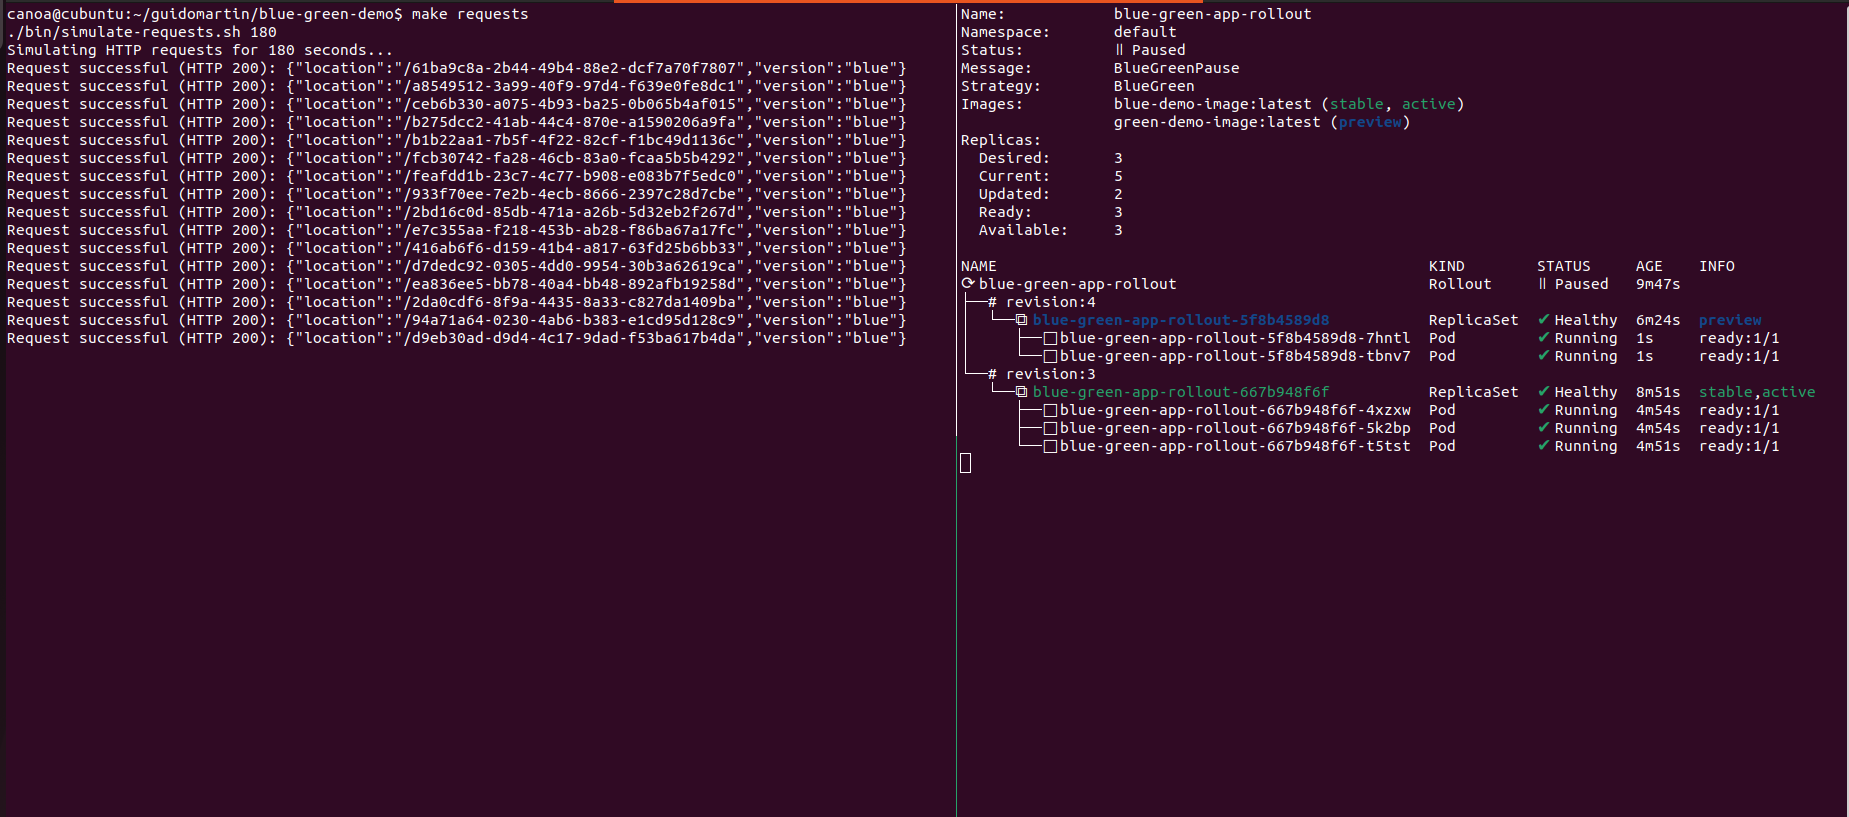
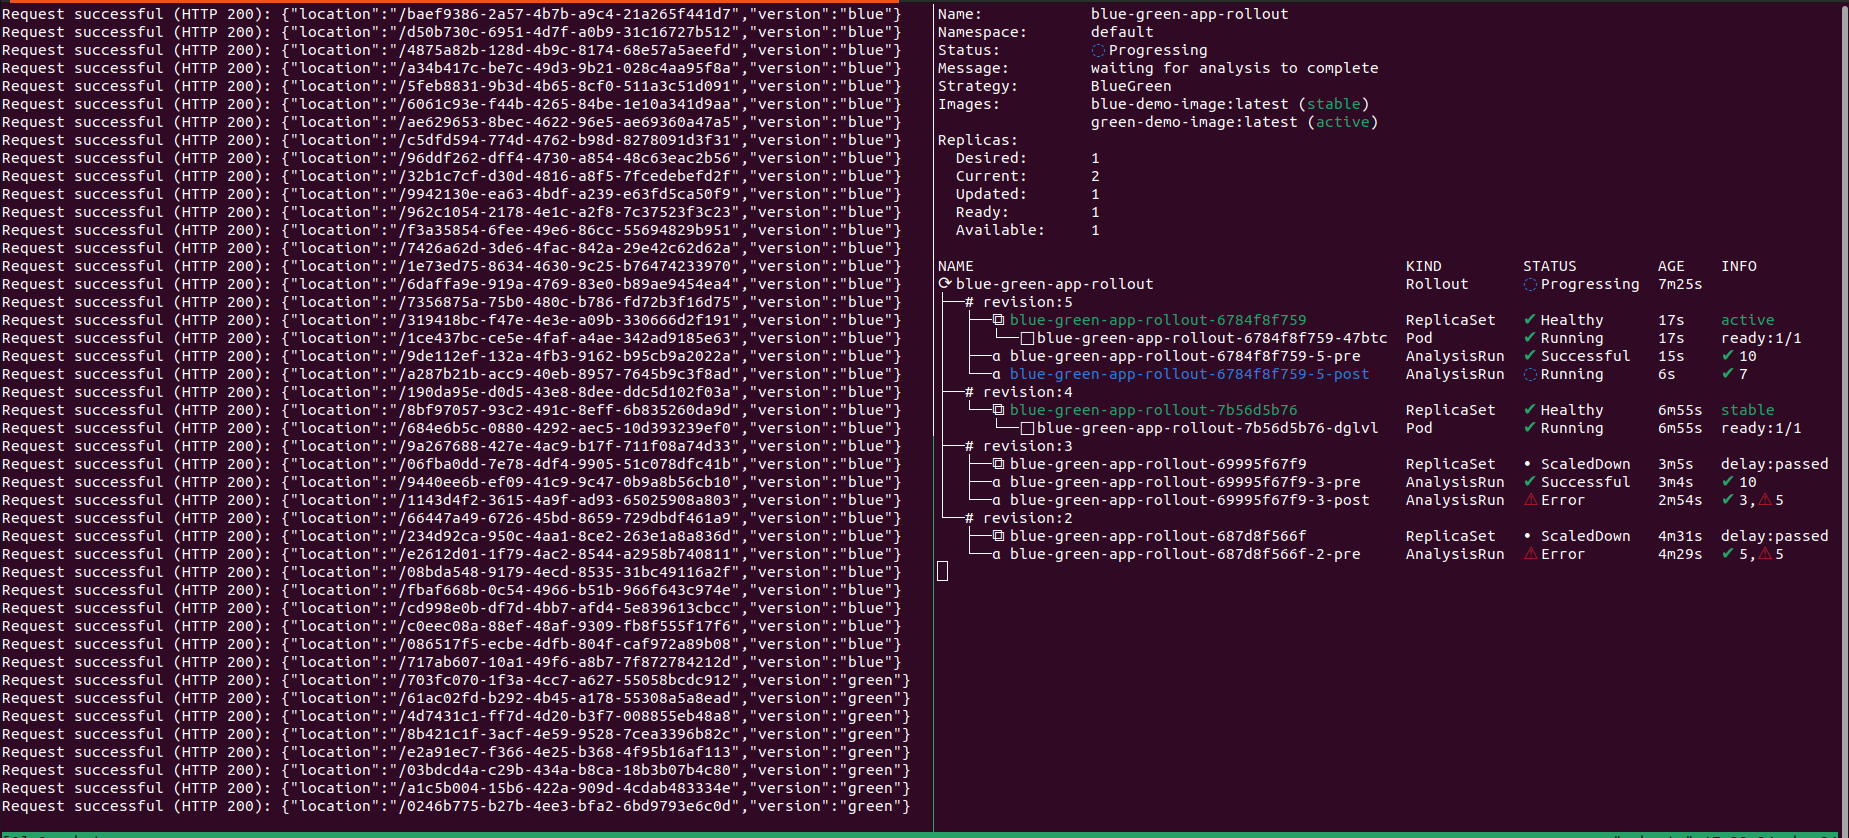
docs(README.md): add failure handling and manual promotion to docs

Changed region(s): [[0.0, 0.0, 1.0, 1.0]]

diff --git a/README.md b/README.md
@@ -61,25 +61,96 @@ make requests
 
 The output will display the location targeted (a UUID) and the version (indicating blue or green) to which the request is connected
 
-#### Step 3: Switch Images and Monitor Rollout
+In a different terminal window, execute the following command to monitor the status of the rollout thought the demo
+```
+make status
+```
 
-In a different terminal window, execute the following command to switch back and forth between the blue and green versions, and monitor the status of the rollout:
+#### Step 3 (Optional): Toggle Auto Promotion to false
+
+By default, this Argo Rollouts demo is configured with `autoPromotionEnabled` set to true, which automatically promotes rollouts after successful completion of prePromotionAnalysis.
+
+To change this behavior and enable manual promotion using a command later in the demo, you can disable auto promotion by executing the following command:
+```
+make disable_auto_promotion
+```
+
+You can revert this setting at any point by executing:
+```
+make enable_auto_promotion
+```
+
+#### Step 4: Showcase Failure before promotion
+
+In this demonstration, we have configured prePromotionAnalysis and postPromotionAnalysis to assess the health of the service by conducting 10 HTTP requests and validating the presence of a version field. The success or failure of these analyses will determine the criteria for promotion and rollback.
+
+To simulate a scenario where prePromotionAnalysis fails, we will intentionally introduce a failure in our application after a few seconds. Execute the following command to make our application image fail after 5 seconds by setting the FAIL_AFTER_SECONDS environment variable in the Argo Rollout:
+
+```
+make fail
+```
+
+Use the make status command to monitor the analysis errors until the new version's status is flagged as "Degraded":
+
+![Pre Promotion Analysis Failing](img/prePromotionFailing.png)
+
+The rollout status will appear as "Degraded" after the status is flagged as "Error":
+
+![Pre Promotion Analysis Degraded](img/prePromotionFailed.png)
+
+This demonstration showcases how the prePromotionAnalysis can detect issues and prevent automatic promotion, allowing you to observe the impact of failures on the rollout's status and behavior. Adjust the analysis criteria and handling based on your specific deployment requirements and error scenarios
+
+#### Step 5: Showcase Failure After Promotion
+
+In this step, we will simulate a failure occurring after the promotion, allowing the prePromotionAnalysis to pass before encountering errors.
+
+To initiate the rollout failure after the pre-promotion analysis has run successfully, execute the following command:
+```
+make fail_after_promotion
+```
+
+If you have **autoPromotionEnabled** set to false (as described in Step 3), you will need to manually promote the image after the pre-promotion analysis finishes. Use the following command to perform manual promotion:
+```
+make manual-promotion
+```
+
+After approximately 12 seconds, the image will begin to return HTTP error 500 responses. This occurs after the pre-promotion analysis has been successfully completed and the preview service has been promoted to active. As a result, simulated requests will start to fail, triggering the post-promotion analysis to detect failures.
+
+![Post Promotion Analysis failing](img/postPromotionFailing.png)
+
+The image will begin to return HTTP error 500 responses before the post-promotion analysis is completed. Once the post-promotion analysis is flagged as an error, the active service will be rolled back to the previous working rollout version. As a result, the simulated requests will start to show successes again once the rollback is complete.
+
+![Post Promotion Analysis Degraded](img/postPromotionFailed.png)
+
+#### Step 6: Restore Health
+
+To restore the health of our rollout, we will remove the FAIL_AFTER_SECONDS environment variable from our configuration.
+
+Execute the following command to recover the healthiness of the rollout:
+```
+make healthy
+```
+
+#### Step 7: Showcase Successful Rollout
+
+To demonstrate a successful case, change the rollout image by executing the following command:
 ```
 make switch
 ````
 
-This command will display the progress of the rollout and provide updates on the current image version.  You can reuse the make switch command to continuously switch images and monitor changes.
+This command initiates the rollout process and provides updates on the progress of the image version change. You can reuse the make switch command to continuously switch images and monitor the rollout's evolution.
 
 ![Preview Rollout](img/preview.png)
 
+If you are running this demo with **autoPromotionEnabled** set to false, the rollout will be paused after the pre-promotion analysis succeeds. At this point, you will need to execute `make manual-promotion` to continue.
 
-#### Step 4: Completion
+![Paused](img/pause.png)
 
-After the image is rolled out and the blue service points to the new image, the preview pod will be marked as stable. At this point, you will start seeing the updated version in the request outputs.
+Once the post-promotion analysis is complete, the rollout will be flagged as stable
 
 ![Finished](img/rolled_out.png)
 
-#### Step 5: Clean Up
+#### Step 8: Clean Up
 
 Once you have completed the demo, use the following command to bring down the kind cluster and delete all associated resources:
 
